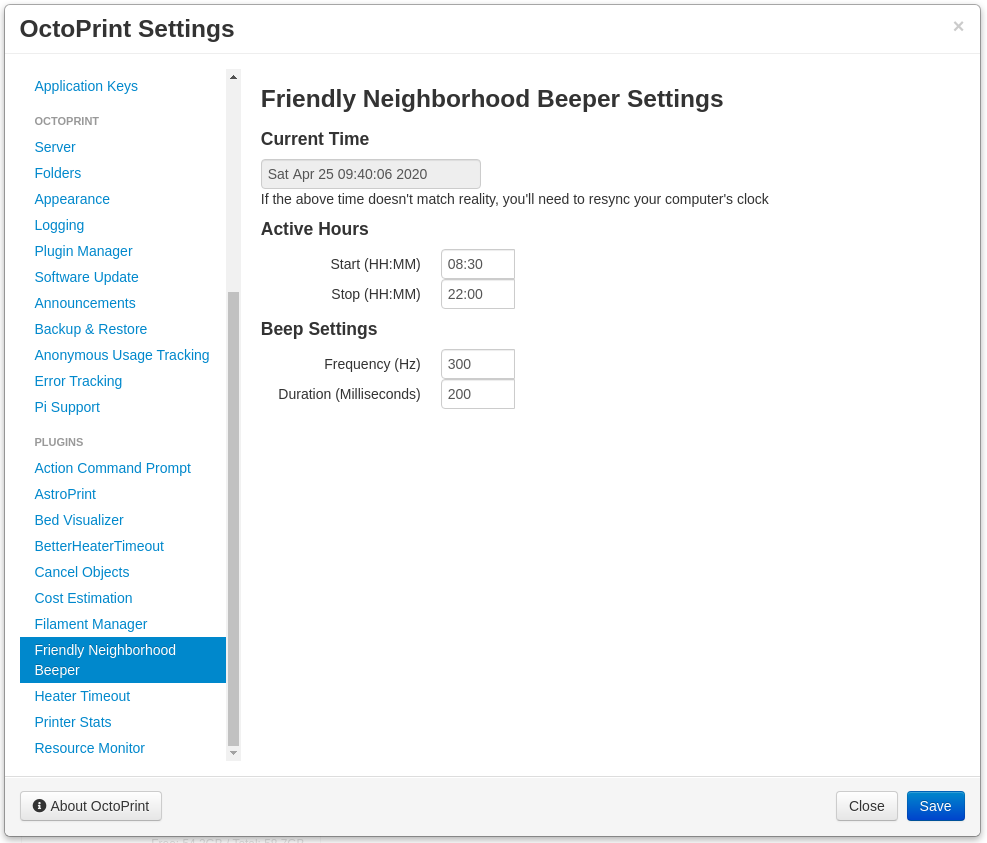
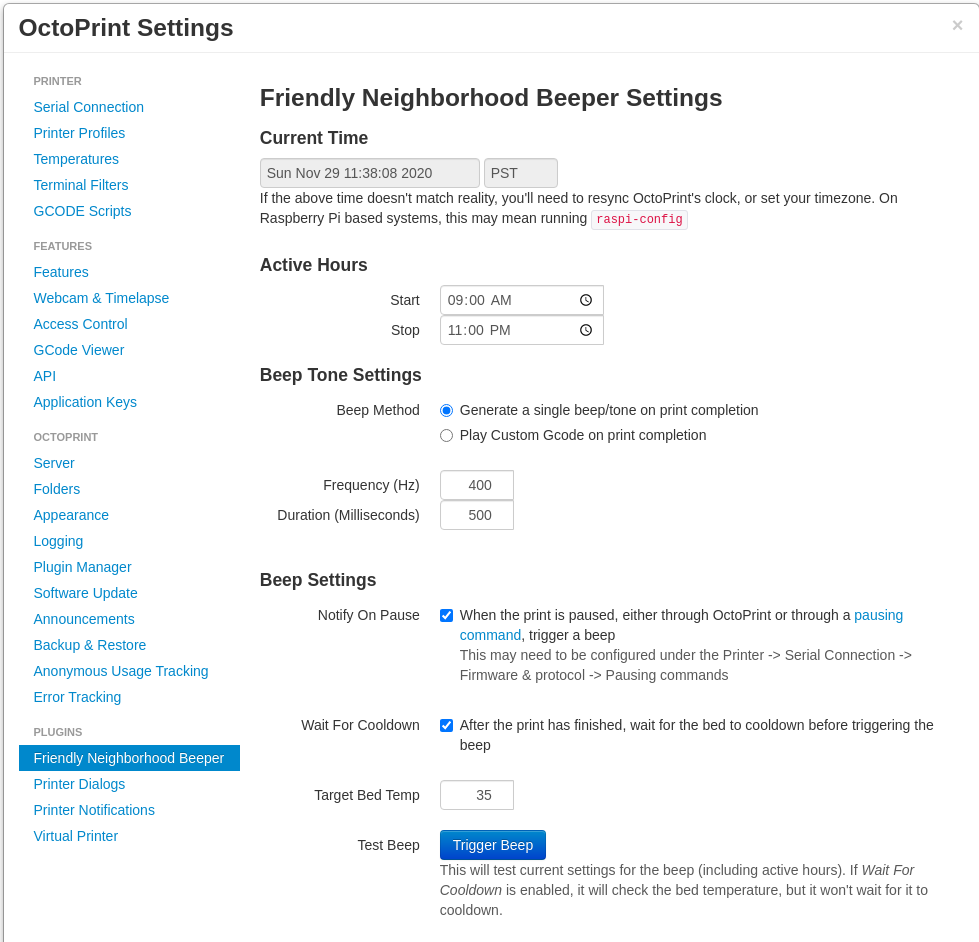
deploy: f669c6615d660cd62f810b7266df6bbcc4bc1ee5

diff --git a/plugins/FriendlyNeighborhoodBeeper/index.html b/plugins/FriendlyNeighborhoodBeeper/index.html
@@ -189,16 +189,24 @@
       </p>
       <p>This plugin is designed to be used to notify when a print is complete. While gcode to beep on print completion can easily be added to the slicer/octoprint, I wanted a way to only beep during certain time frames as I don’t want my neighbors to hate me for my printer beeping at 2 in the morning.</p>
 
+<h1 id="requirements">Requirements</h1>
+<ul>
+  <li>Currently requires the use of Gcode M300 to trigger the beep</li>
+</ul>
+
 <h1 id="configuration">Configuration</h1>
 <h2 id="active-hours">Active Hours</h2>
 <p>These settings define the hours the printer may beep when the printer completes. These default to 8am - 10pm as I won’t likely be checking my printer outside those hours.</p>
 
-<p>Note: I don’t currently support time windows like 10pm - 8am currently.</p>
-
-<h2 id="beep-settings">Beep Settings</h2>
+<h2 id="beep-tone-settings">Beep Tone Settings</h2>
 <p>If you want to change the tone, or duration of the beep the printer makes, these can be changed to modify that.</p>
 
-<p>Currently, there is no ability to play multiple beeps</p>
+<p>Can be configured for custom tones</p>
+
+<h2 id="beep-settings">Beep Settings</h2>
+
+<p>Notify On Pause: Allow notification on pause events
+Wait for Cooldown: Will delay the beep until the bed has reached the indicated temperature (while respecting active hours)</p>
 
 
       
